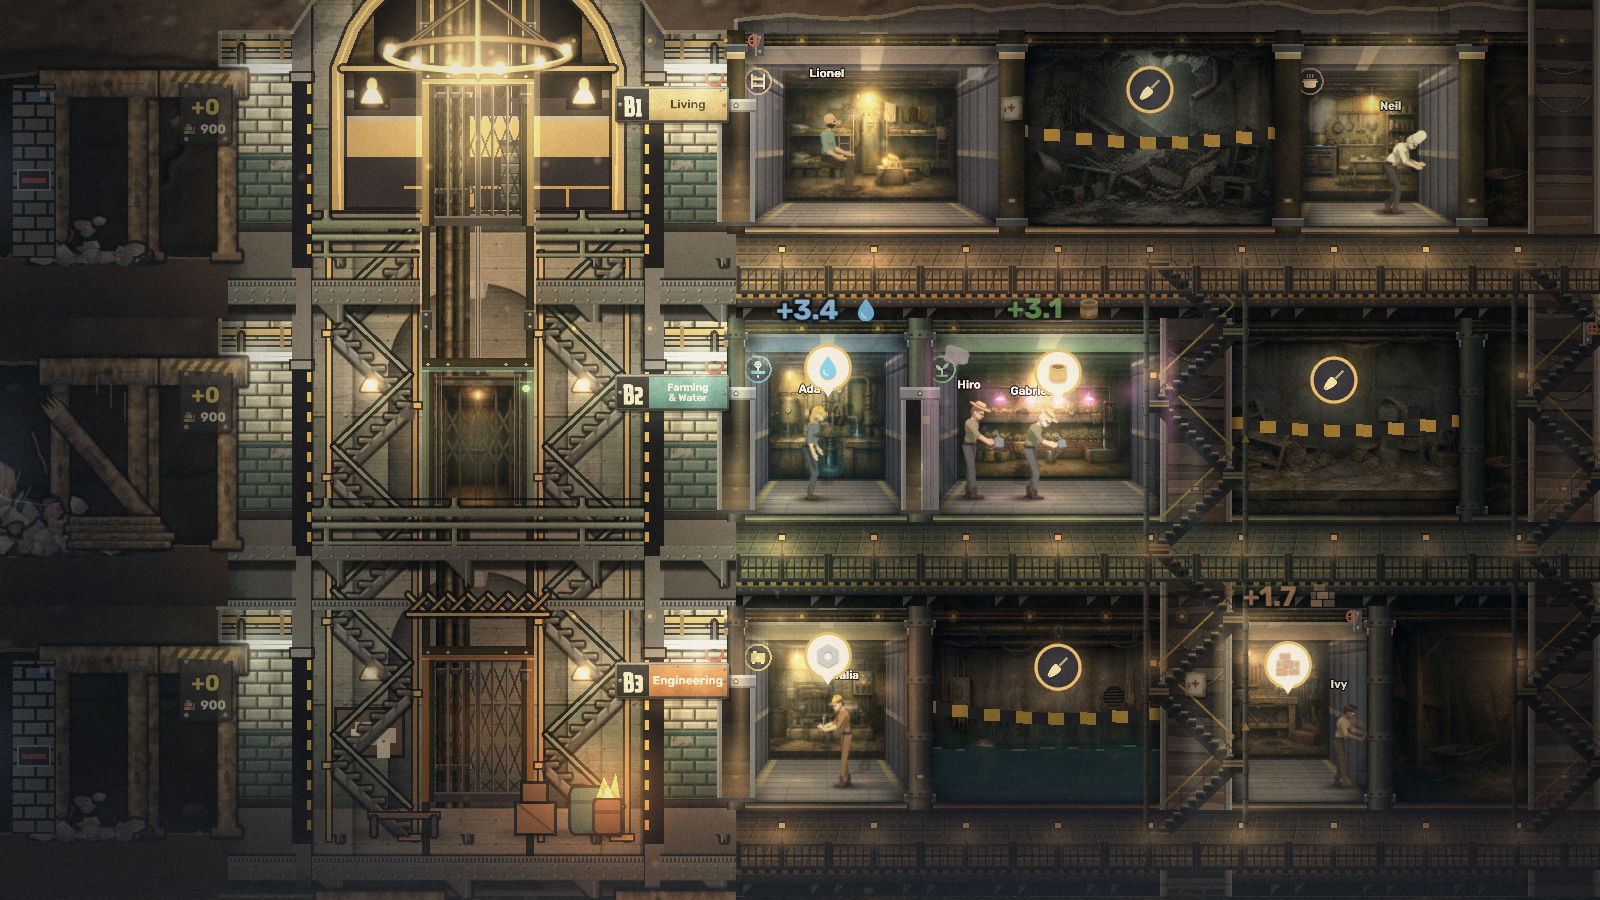
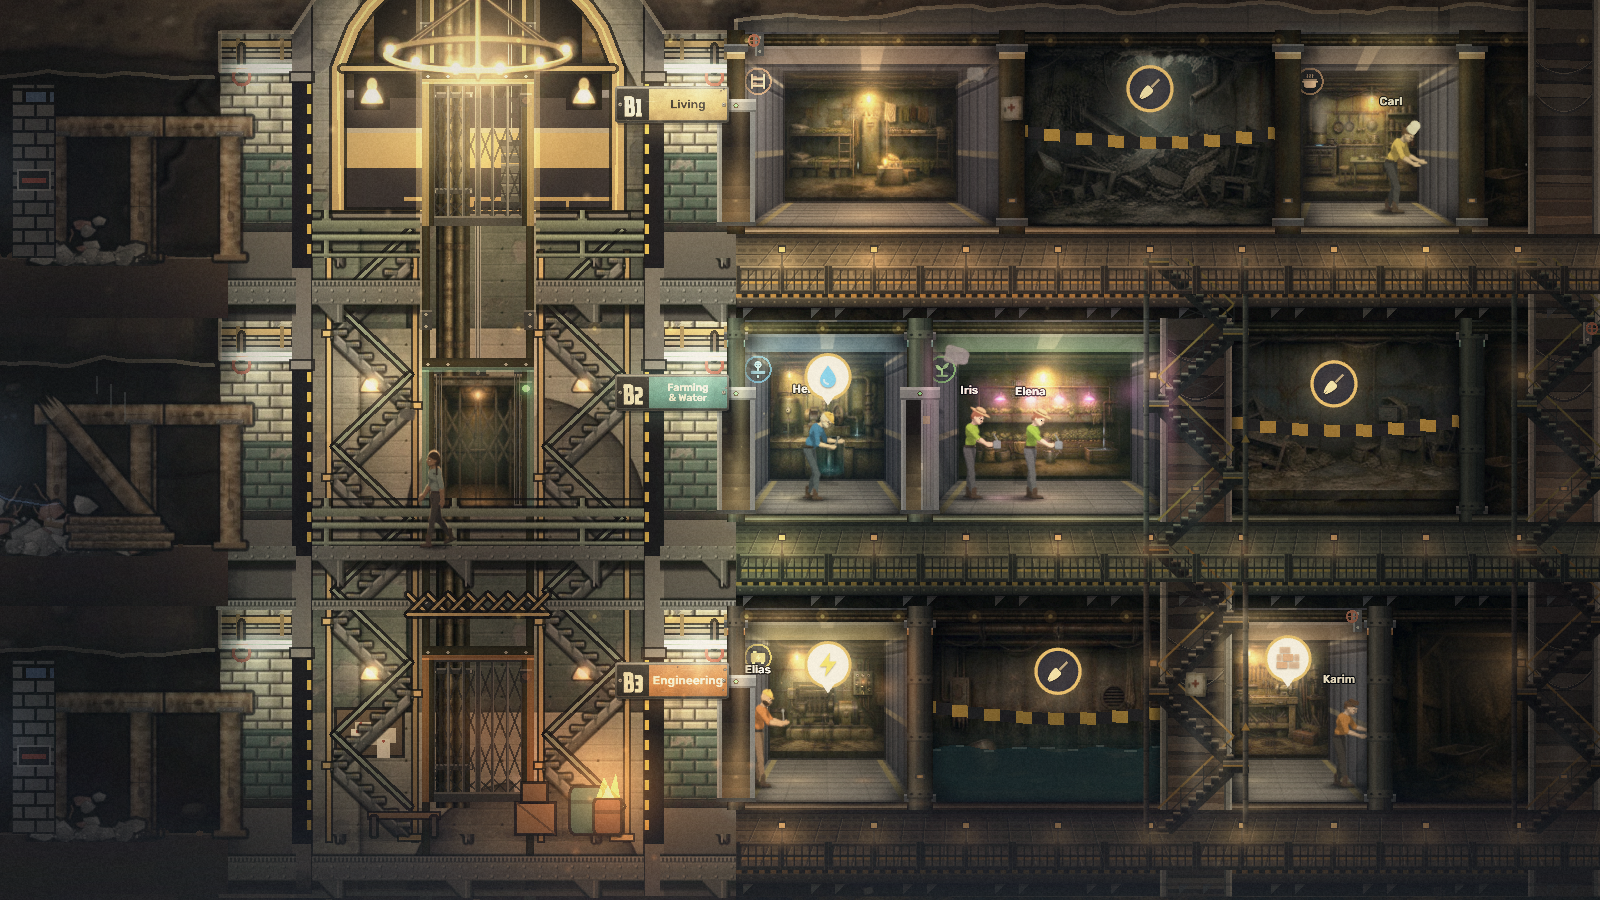
docs(world): render notes phase 2c (wiring, budgets, perf at equal zoom) and refreshed C shots

diff --git a/store/world-redesign/C-render-notes.md b/store/world-redesign/C-render-notes.md
@@ -484,3 +484,95 @@ Production build, iGPU, A2 method; classic and city measured in the same session
 `shots/C-overview.png`, `C-hub.png`, `C-corridor.png`, `C-district.png`, `C-edge.png` (slice) and `C-dig.png` (slice-dig). All at High, 1600x900.
 
 The camera still clamps vertically. The east edge choke is framed from the rooms' side.
+
+## Phase 2c: camera and life wiring, open items, budgets (tech-artist, world-redesign, 2026-10-15)
+
+### What changed
+
+**Wiring**
+- `CityHost.parallaxSource = () => cam.parallaxInfo()` gives the city camera-nav's official parallax camera, so the local derivation is only a fallback.
+- `cam.setCityLayout(layout)` is called on every layout sync.
+- `setLightSink(...)` (C1-Li §1) replaces the walkers' `ambientAt` override.
+- `walkers.life(...)` runs after `walkers.update` in `renderPeople`. It only runs in city mode.
+
+**Wing signs (`wingSigns.ts`)**
+- In the city, an edge the Act holds shut shows no price plate; the shell's choke is the blocked look.
+- The tap target stays, so the wing card still explains why it is shut.
+
+**Gradient leak (`shell/kit.ts`)**
+- `vfill` gradients are now shared. Same arguments, same `FillGradient`.
+- Before, every shell build left about 330 textures of 256x1 behind. On e55 the count now stays flat across three remounts (815 before and after); it used to grow from 1987 to 2976.
+
+**Art arrival**
+- When world-kit art arrives, only the rock is refreshed: `ShellParts.refreshRock()` drops the rock chunks.
+- The whole shell is no longer rebuilt. The other pieces swap their stand-ins themselves (`pendingSprites`).
+
+**Rock caches**
+- One cache per rock chunk (it was two). The AO is drawn over the erased rock: it still shades the hole, and now also slightly darkens the cut lip.
+
+**Far and back planes**
+- On Medium the far plane is merged into the back plane's cache (`TIER_RENDER.medium.planes = 'merged'`), as on Low.
+
+**Batching**
+- Each shell piece's children are regrouped by blend mode: normal, then multiply, then add.
+- The vestibules went from 15 draw calls to 4 on a fresh game.
+
+**Fore plane: off** (`BACKDROP.fore.enabled = false`)
+- At parallax 1.32 its seam lip drifted over the dig face, the dig sign and the rooms. The style guide does not allow that.
+- It needs a layout-aware fore before it comes back.
+
+### Checked in the game
+
+**Camera**
+- City bounds come from camera-nav: y −140..716 in the slice, the edges are included, and the camera now pans vertically.
+- Phone framing: hub shot at 375x812@2.
+
+**Life**
+- slice: 1 loiterer, at the west edge tunnel.
+- slice-dig: 2 diggers, who walk down the hub stairs to the face. The dig ends after about 20 s; the B4 hub then holds them.
+- e55: 10 loiterers and 1 lantern, a moving light.
+- No console errors.
+
+**People update** (`renderPeople` median / p95, dev build)
+- slice: 0.3 / 0.6 ms.
+- e55: 2.1 / 6.0 ms, against 1.3 / 3.5 ms in classic.
+
+**Classic compare** (baseline 0ec099d): 3.04 % mean, 8.1 % max. The diff images show only rain, people and lamp flicker; nothing in the structure changed.
+
+### Performance
+
+Production build, iGPU. Classic and city were measured in the same session at the **same absolute zoom**: overview 0.8 on desktop, 0.62 on phone; the sweep runs over 0.7–2.3.
+
+| Medium | Draw calls, classic → city | GPU MB, classic → city | Raw frame med ms, classic → city |
+|---|---|---|---|
+| fresh desktop | 203 → 219 (+16) | 169 → 208 | 3.5 → 6.8 |
+| e55 desktop | 625 → **601** | 256 → 371 | 24.4 → 25.1 |
+| fresh phone | 205 → 217 (+12) | 370 → **383 (+13)** | 3.5 → 4.2 |
+| e55 phone | 645 → **558** | 449 → **299** | 23.8 → 21.8 |
+
+| High | Draw calls, classic → city | GPU MB, classic → city | Raw frame med ms, classic → city |
+|---|---|---|---|
+| fresh desktop | 207 → 259 | 146 → 200 | 33.8 → 51.4 |
+| e55 desktop | 645 → 665 | 251 → 334 | 41.6 → 47.7 |
+| fresh phone | 208 → 240 | 370 → 315 | 3.9 → 6.1 |
+| e55 phone | 666 → 597 | 321 → 281 | 20.9 → 35.7 |
+
+**Budgets at Medium**
+- **Phone memory: met.** The city is at most classic + 20 MB: +13 MB fresh, −150 MB at e55.
+- **Fresh-game draw calls: not met.** The budget is classic + 10; the city is +12 on phone and +16 on desktop.
+  - What remains is non-batchable shell Graphics: the edge chokes and the hub front, each above Pixi's 200-vertex batching limit.
+- **Desktop memory:** +39 MB fresh, +115 MB at e55. The new world-kit art is most of it.
+
+The earlier tables measured at a relative zoom. Camera-nav's city fit changed the base zoom, so city and classic were no longer framing the same view. They are not comparable with this one.
+
+**Next steps**
+- Cache the edge chokes and the hub front as small textures, or simplify their Graphics.
+- Check the desktop world-kit texture sizes, which use mipmaps.
+
+### Shots
+
+All at High, 1600x900:
+- `C-overview`, `C-hub`, `C-corridor`, `C-district`, `C-edge`: the slice, now with life.
+- `C-dig`: slice-dig at 59 %, with the crew on the hub stairs.
+
+`C-phone-hub` is the mobile preset, 375x812@2.
